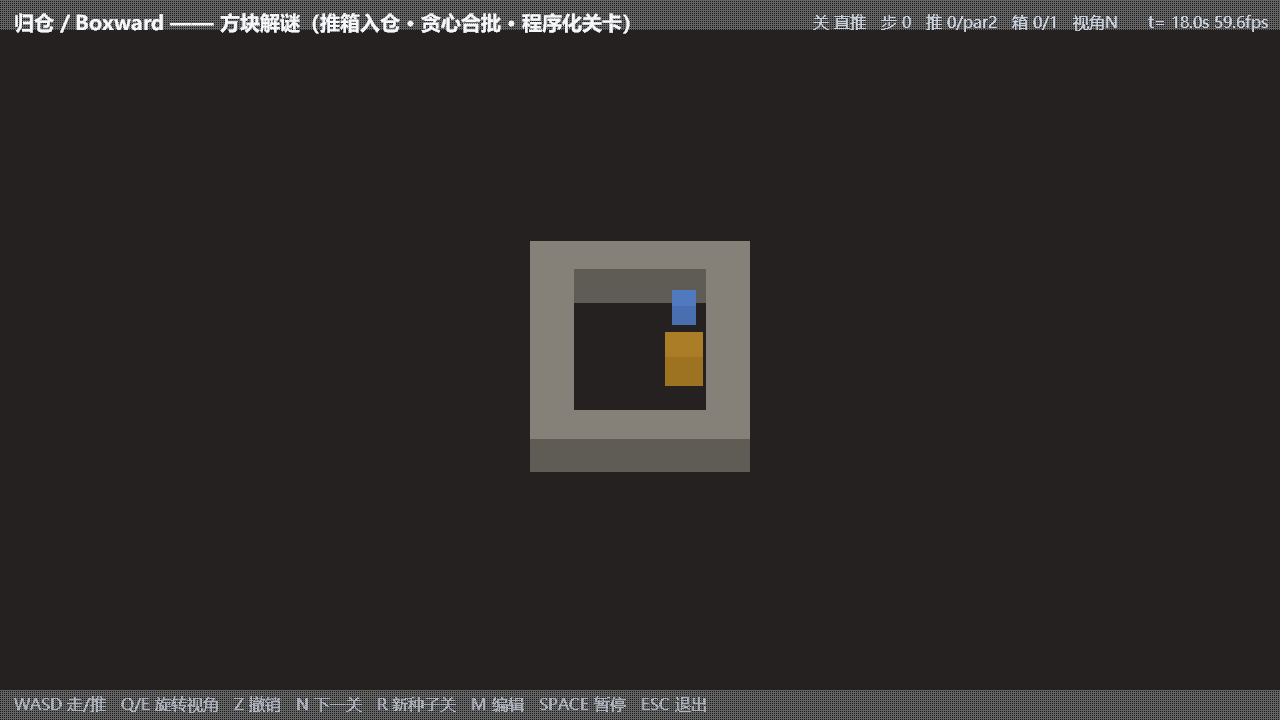
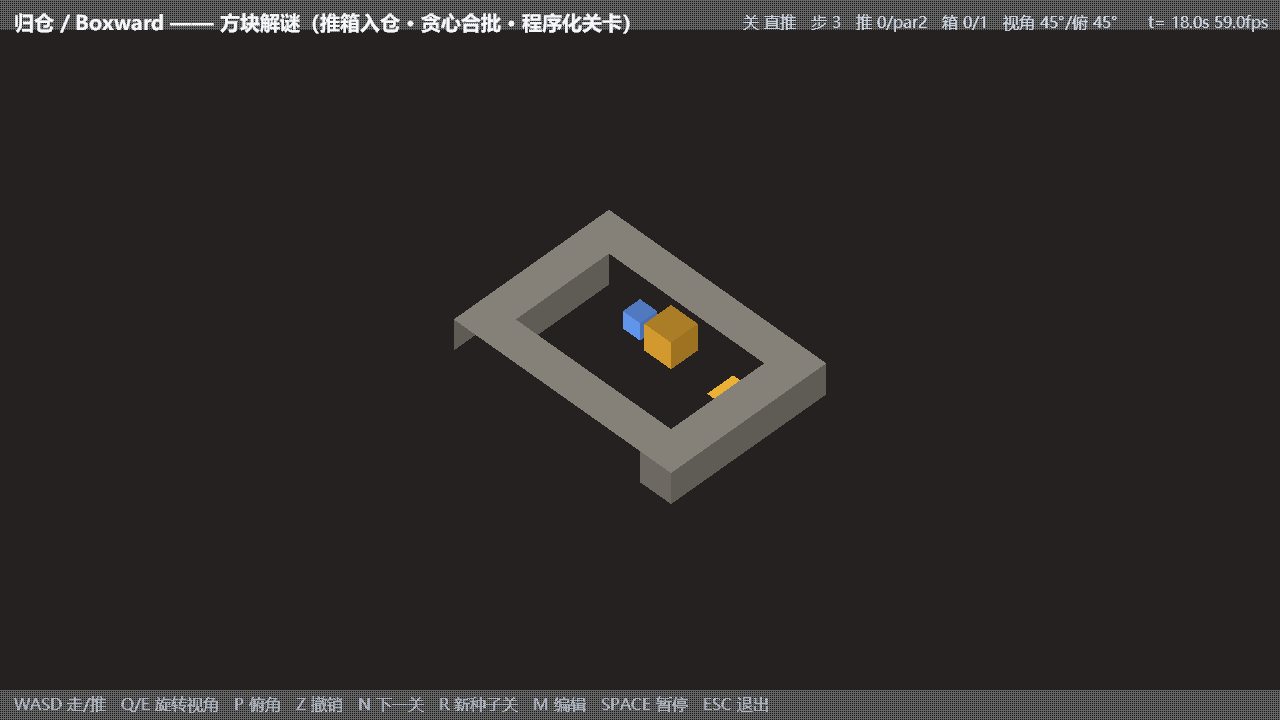
feat(boxward): 视角改为正交等距（偏航 +45°），方块终于有立体感
问题（全哥指出）：原来相机 yaw = 90°·档，**轴对齐**地盯着关卡看 —— 任何方块都只能
看到一个面（顶面），整幅画面读起来像一块 2D 平板，"3D 立体感并不明显"。

改动（`demos/boxward.py`）：
- 相机偏航加**固定 45° 偏移**：`yaw = 45° + 90°·档`。这样每个方块同时露出
  **两个侧面 + 顶面**（墙体/箱子/玩家的体积感立刻出来），且因为偏移对四档一致，
  四个旋转档位都保持对称的等距外观。俯角默认 40° → **45°**（更接近真等距感）。
- 新增 **`P` 键循环俯角** 30/38/45/52°（`PITCH_PRESETS`），方便按手感微调；
  俯角范围 28..60 → 30..60（28° 会把地板边缘露进画面）。
- 状态行的 `视角NESW` 改为**真实角度** `视角 45°/俯 45°`（45° 偏航下用 N/E/S/W 会误导）。
- 未动取景（`ZOOM` 保持 8.2）：原取景与改动前同量级，不是本次要解决的问题。

⚠ **输入映射故意不跟着转**：`games/puzzle/kernel.py:cam_move_dirs(rot)` 仍按
`90°·rot` 取整。若把 45° 偏移加进去，`round(±0.707)` 会取整成 **对角步**，
走子直接失效。因此四个方向键在屏幕上呈现为**四个斜向**（经典等距操作），
与"把相机转 45°"是两件独立的事 —— 这条已写进 kernel 的 docstring，防止后人"顺手修"。

验收（实测，未设 CORDIS_SRC）：
- `scripts/run_all_tests.py` → 7/7 模块 / **140 项** / `ALL_TESTS_PASSED`
  （含 `test_cam_move_dirs_mapping`：映射语义未变）；
- `python -m cli.config_boot puzzle` → **BOXWARD_OK**（玩法逻辑零改动，10/10 种子仍通关）；
- `python -m cli.config_boot all` → **9 个 OK 标记**；
- `scripts/verify_demos.py --only boxward` → smoke ok / shot ok / 2 张，并逐张看图确认：
  墙体/箱子/玩家三个都露出两个侧面 + 顶面，HUD 显示 `视角 45°/俯 45°`，帮助行含 `P 俯角`。

文档同步：`README.md` / `demos/README.md` 的"正交 45° 四向视角"改成"**正交等距视角**
（偏航 45° + 俯角 45°，Q/E 切档 / P 调俯角）"——原表述其实与实现不符（实现是轴对齐 40°），
这次顺带把描述与代码对齐了。

Changed region(s): [[0.3438, 0.275, 0.6562, 0.7028], [0.1875, 0.9472, 0.5938, 1.0], [0.5938, 0.0, 0.875, 0.0611]]

diff --git a/demos/boxward.py b/demos/boxward.py
@@ -13,7 +13,8 @@
 - update()  键盘走子 / `--flag auto` 的求解器回放交给内核，事件转音效；
 - render()  只读内核 / 网格状态：**静态墙 = 贪心合并网格**（`greedy_mesh`，一次建网），
             箱 / 玩家 / 目标 = 动态小 cube 逐个 batch（u_model 平移缩放），
-            正交 45° 视角（Q/E 以 90° 步进旋转，WASD 方向随相机映射）。
+            **正交等距视角**（偏航 = 45° + 90°·档，Q/E 切档；俯角 P 键循环，默认 45°），
+            WASD 方向随相机映射（映射按 90° 档取整，故屏幕上呈四个斜向）。
 
 **单一事实来源 = 关卡 JSON**：编辑器（M 键）导出的 = 生成器产出的 = 内核吃的。
 **auto-pilot = 求解器回放**：`--flag auto` 与 `config_boot puzzle` 的 headless 验收同源。
@@ -120,14 +121,22 @@ TINT_CURSOR = (0.30, 0.90, 0.95)
 
 class BoxwardDemo(DemoApp):
     TITLE = '归仓 / Boxward —— 方块解谜（推箱入仓 · 贪心合批 · 程序化关卡）'
-    HELP = ('WASD 走/推   Q/E 旋转视角   Z 撤销   N 下一关   R 新种子关   '
-            'M 编辑   SPACE 暂停   ESC 退出')
+    HELP = ('WASD 走/推   Q/E 旋转视角   P 俯角   Z 撤销   N 下一关   '
+            'R 新种子关   M 编辑   SPACE 暂停   ESC 退出')
     DURATION = None          # 交互型：time 不取模，持续累加
     HUD = True
     SHOTS = ((6.0, 'docs/boxward_a.png'),       # 手工关中段：推箱进行时
              (18.0, 'docs/boxward_b.png'))      # auto 连续闯关中的生成关
 
     ZOOM = 8.2               # 正交半高（世界单位）
+
+    # 等距视角：偏航固定比"轴对齐"多 45°，这样每个方块同时露出**两个侧面 + 顶面**，
+    # 立体感才出来（轴对齐时一个方块只能看到一个面，整幅画面读起来像 2D 平面）。
+    # ⚠ 输入映射**不跟着转**：`cam_move_dirs(rot)` 仍按 `90°·rot` 取整 —— 于是四个
+    # 方向键在屏幕上呈现为四个"斜向"（经典等距游戏的操作感）。「相机偏航 +45°」与
+    # 「输入按 90° 分档」是两件独立的事，别把它们合并成一件。
+    YAW_OFFSET = 45.0
+    PITCH_PRESETS = (30.0, 38.0, 45.0, 52.0)   # P 键循环（俯角越大越俯视）
 
     def setup(self):
         glEnable(GL_DEPTH_TEST)
@@ -138,8 +147,8 @@ class BoxwardDemo(DemoApp):
         # ---- Cordis 挂载（配置树驱动）----
         self.ctx, self.kernel = self._boot_kernel()
         self.grid = self.kernel.ctx.grid
-        self.cam = OrbitCamera(target=Vec3(0, 0.4, 0), yaw=0.0, pitch=40.0,
-                               dist=17.0, pitch_range=(28.0, 60.0),
+        self.cam = OrbitCamera(target=Vec3(0, 0.4, 0), yaw=self.YAW_OFFSET, pitch=45.0,
+                               dist=17.0, pitch_range=(30.0, 60.0),
                                dist_range=(10.0, 30.0))
         self._rot = 0
 
@@ -272,10 +281,15 @@ class BoxwardDemo(DemoApp):
             self.kernel.step(dirs['D'])
         elif symbol == key.Q:
             self._rot = (self._rot - 1) % 4
-            self.cam.yaw = 90.0 * self._rot
+            self.cam.yaw = self.YAW_OFFSET + 90.0 * self._rot
         elif symbol == key.E:
             self._rot = (self._rot + 1) % 4
-            self.cam.yaw = 90.0 * self._rot
+            self.cam.yaw = self.YAW_OFFSET + 90.0 * self._rot
+        elif symbol == key.P:
+            # 俯角循环：30°（最平、侧面最露）→ 52°（最俯视）。默认 45° 是"等距感"最均衡的一档。
+            i = self.PITCH_PRESETS.index(self.cam.pitch) if self.cam.pitch in self.PITCH_PRESETS else -1
+            self.cam.pitch = self.PITCH_PRESETS[(i + 1) % len(self.PITCH_PRESETS)]
+            self._edit_msg = f'俯角 {self.cam.pitch:.0f}°'
         elif symbol == key.Z:
             self.kernel.undo()
         elif symbol == key.N:
@@ -450,7 +464,8 @@ class BoxwardDemo(DemoApp):
         st = {'won': '入仓', 'prep': ''}.get(k.ctx.rules.state(), '')
         return (f'关 {k.level_name}   步 {k.steps}   推 {k.pushes}/par{par}   '
                 f'箱 {sum(1 for c in g.boxes if g.on_goal(*c))}/{len(g.goals)}   '
-                f'视角{"NESW"[self._rot]}   {self._edit_msg}'
+                f'视角 {int(round(self.cam.yaw)) % 360}°/俯 {int(round(self.cam.pitch))}°   '
+                f'{self._edit_msg}'
                 f'{"  [编辑]" if self._editing else ""}'
                 f'{"  [AUTO]" if self.auto else ""}'
                 f'{"  [PAUSED]" if self.paused else ""}'

diff --git a/games/puzzle/kernel.py b/games/puzzle/kernel.py
@@ -69,6 +69,10 @@ def cam_move_dirs(rot):
 
     纯函数（demo 与单测共用）：相机朝向的 xz 分量为 (-cos a, -sin a)，
     W = 前方，D = 右方（right = (-fz, fx)，与 rayhold 的约定一致）。
+    ⚠ demo 的相机偏航带一个**固定的 +45° 等距偏移**（`demos/boxward.py` 的 `YAW_OFFSET`），
+    但本映射**故意按 `90°·rot` 取整、不跟着转** —— 于是四个键仍对应四个正交的格方向
+    （屏幕上呈现为四个斜向，即经典等距操作），不会算出非法的对角步。
+    别"顺手"把那个偏移加进来：一加就取整成对角，走子直接失效。
     """
     a = math.radians(90.0 * rot)
     fx, fz = -math.cos(a), -math.sin(a)

diff --git a/demos/README.md b/demos/README.md
@@ -59,7 +59,7 @@ python scripts\verify_demos.py --only boids,water  只验指定 demo
 | `scene_viewer.py` | 工具 | **场景查看器（非定时演出）**：加载 `--file` 指定的场景 JSON 并实时渲染，改文件即热重载（坏 JSON 会被拒绝、保留旧场景）——「LLM 场景生成工作流」的"看"这一端；**未声明 `SHOTS`，批量验收跳过截图阶段** | — |
 | `mountain.py` | 观察式 | **《山》**（致敬 David OReilly 的 Mountain）：复用 terrain_flyover 噪声管线生成**悬浮孤峰**（顶/底两面在边界闭合）+ 片元级动态光照昼夜交替 + 云/雨/雪气象轮替 + 坠落物体与生长植物 + 哲学独白叠层 + **人格测验答案嵌进生成参数**（N 键）+ 键盘钢琴（A~K 即时合成五声音阶）+ 流星撞击崩解重生（C 键） | `mountain_day/dusk.png` |
 | `rayhold.py` | 交互 | **《迷堡枪影 / Rayhold》**（P1-③ 射线 FPS，机制致敬 Wolfenstein 3D / Doom）：**程序化随机迷宫**（递归回溯 + 12% 编织，种子可复现）+ **全屏片元着色器 SDF 光线步进**（墙 / 地板 / 敌人 / 光弹 / **拾取悬浮球 / 出口金色呼吸光**在同一场景，迷宫距离场与命中判定同源）+ hitscan 射线枪 + 2 种敌人状态机（近战游荡者 / 远程哨卫投光弹）+ 弹药与医疗拾取 + aim trainer 式手感（**hitmarker 命中/击杀标记、−/= 灵敏度与 cm/360 估算、结算命中率小结、失焦清键与回焦重锁**）；玩法全在 `games/fps/kernel.py`，由 `cordis.fps.yml` 配置树挂载（平衡参数集中在 yml） | `rayhold_a/b.png` |
-| `boxward.py` | 交互 | **《归仓 / Boxward》**（P1-④ 方块解谜，机制致敬 Sokoban 1982）：**光栅贪心合批**（静态墙由 `greedy_mesh` 合并建网，补齐 `SdfVoxelCore.world_mesh` 留白）+ 正交 45° 四向旋转视角（WASD 随相机映射）+ **BFS 求解器 auto-play**（headless 验收 / 录制 / 生成器验证同源）+ **程序化关卡**（反向拉箱打乱，可解性由构造保证）+ **关卡编辑器**（M 键摆格 / X 试解 / E 导出 JSON，三端同 schema）+ undo 与推数 par；玩法全在 `games/puzzle/kernel.py`，由 `cordis.puzzle.yml` 配置树挂载 | `boxward_a/b.png` |
+| `boxward.py` | 交互 | **《归仓 / Boxward》**（P1-④ 方块解谜，机制致敬 Sokoban 1982）：**光栅贪心合批**（静态墙由 `greedy_mesh` 合并建网，补齐 `SdfVoxelCore.world_mesh` 留白）+ **正交等距视角**（偏航 45° + 俯角 45°，每个方块同时露出两个侧面 + 顶面 —— 原先轴对齐时只看到一个面、读起来像 2D；`Q/E` 切 90° 档、`P` 循环俯角 30/38/45/52°，WASD 随相机映射、屏幕上呈四个斜向）+ **BFS 求解器 auto-play**（headless 验收 / 录制 / 生成器验证同源）+ **程序化关卡**（反向拉箱打乱，可解性由构造保证）+ **关卡编辑器**（M 键摆格 / X 试解 / E 导出 JSON，三端同 schema）+ undo 与推数 par；玩法全在 `games/puzzle/kernel.py`，由 `cordis.puzzle.yml` 配置树挂载 | `boxward_a/b.png` |
 | `swarmward.py` | 交互 | **《弹潮 / Swarmward》**（P1-⑤ 弹幕固定屏射击，机制致敬 Robotron 2084 1982）：**全向生存**（固定屏 24×15 正交）+ **双摇杆**（WASD 移动 + 方向键/鼠标射击）+ **程序化编波**（`wave_plan(seed, wave)` 难度单调 + `pathing.formation` 编队进场——pathing 核首个内核消费者）+ **particles 核首个内核消费者**（击杀碎屑/命中火花/受击冲击，`snapshot()` 渲染层淡出）+ 3 敌型状态机（直冲/游走射击/编队蜂群）+ 连击计分 + Aimlabs 手感件（受击白闪/量化结算）+ 10 波通关制与无尽 flag；玩法全在 `games/storm/kernel.py`，由 `cordis.storm.yml` 配置树挂载 | `swarmward_a/b.png` |
 
 | `godhand.py` | 交互 | **《神之手 / GodHand》**（P1-①，机制致敬 Populous / From Dust）：鼠标「抬山 / 挖海」实时改写地形高度场，淹没或掩埋敌方聚落即胜；玩法在 `games/godhand/kernel.py`，由 `cordis.godhand.yml` 配置树挂载 | — |
